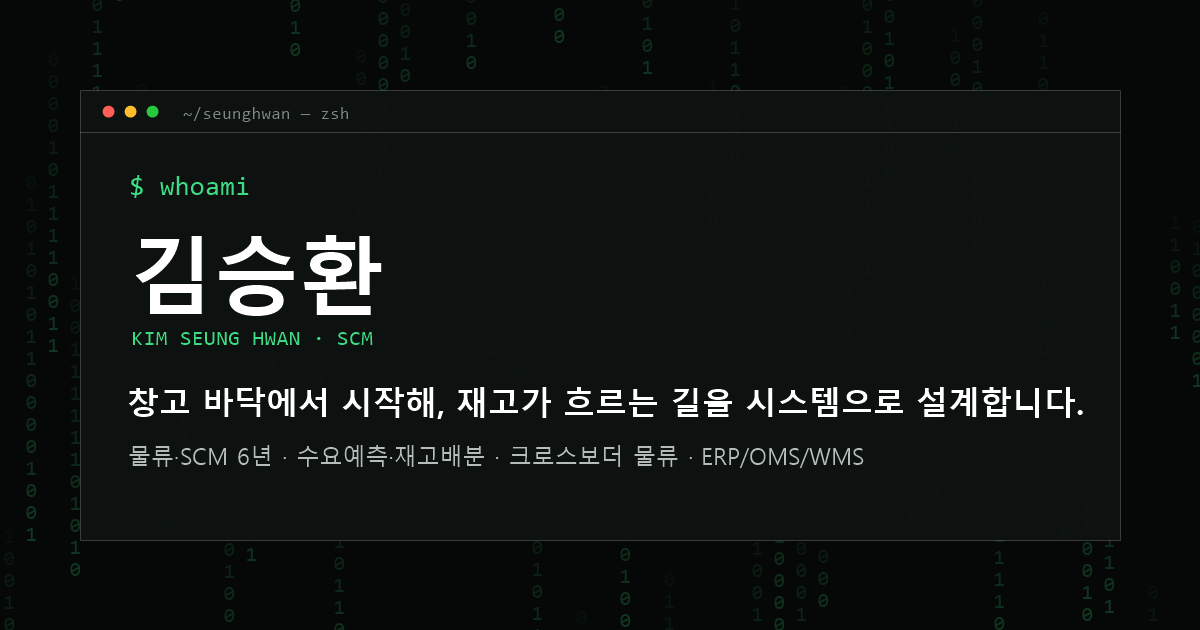
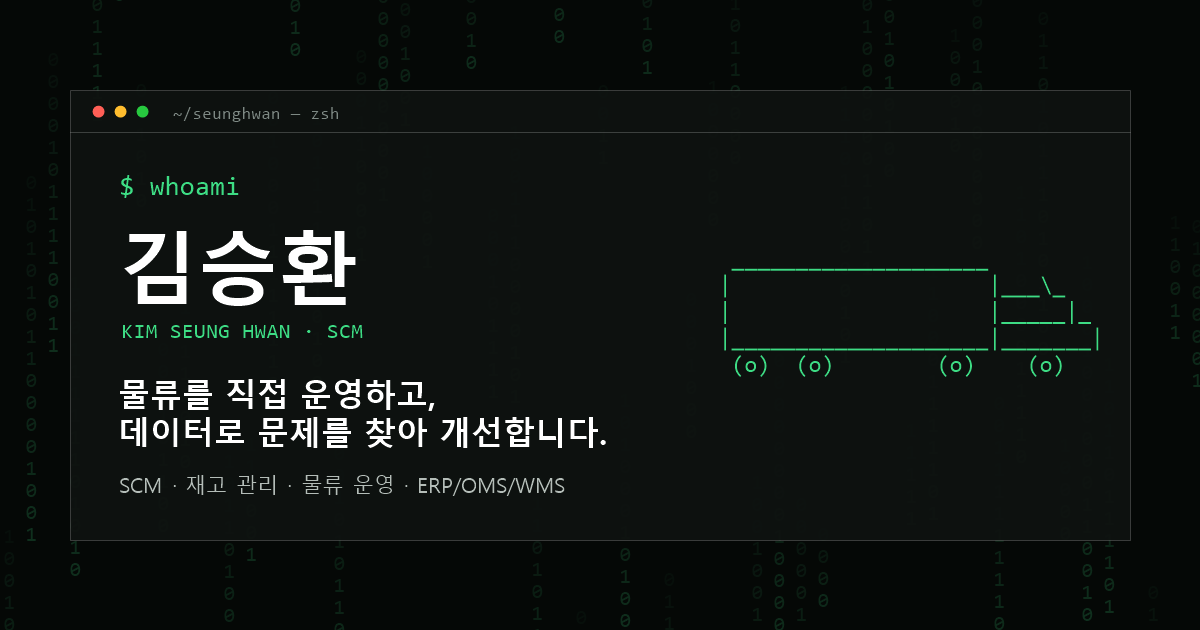
Drive the footer truck itself, drop SKU box, new share image, blur only on PrintScreen

diff --git a/index.html b/index.html
@@ -209,12 +209,10 @@
   footer pre { font: 10px/1.25 var(--mono); color: var(--green); opacity: .7; cursor: pointer; transition: opacity .2s; }
   footer pre:hover, footer pre:focus-visible { opacity: 1; }
   /* 이스터에그: 트럭 배송 */
-  .truck-run { position: fixed; left: 0; bottom: 18px; z-index: 20; margin: 0; font: 12px/1.25 var(--mono); color: var(--green); pointer-events: none; animation: drive 2.6s cubic-bezier(.5, 0, .7, 1) forwards; }
   /* 이스터에그: 릭롤 팝업 */
   .rick { width: min(720px, calc(100% - 32px)); margin: auto; padding: 0; background: #0e1210; border: 1px solid var(--line-strong); border-radius: 10px; overflow: hidden; color: var(--text); }
   .rick::backdrop { background: rgba(0, 0, 0, .8); }
   .rick iframe { display: block; width: 100%; aspect-ratio: 16 / 9; border: 0; background: #000; }
-  @keyframes drive { from { transform: translateX(-320px); } to { transform: translateX(calc(100vw + 40px)); } }
 
   /* 프로필 사진: 21프레임 스프라이트(졸라 → E3 → 원본 단순 혼합), 마우스 올리면 재생·떼면 역재생 */
   .who { display: flex; align-items: center; gap: 28px; }
@@ -627,11 +625,11 @@
   </dialog>
 
   <footer>
-    <pre id="truck" role="button" tabindex="0" aria-label="트럭 출발시키기" title="출발!"> _____     ____________________
-|     |   |                    |___\_
-| SKU |   |                    |_____|_
-|_____|   |____________________|_______|
-           (o)  (o)        (o)    (o) </pre>
+    <pre id="truck" role="button" tabindex="0" aria-label="트럭 출발시키기" title="출발!"> ____________________
+|                    |___\_
+|                    |_____|_
+|____________________|_______|
+ (o)  (o)        (o)    (o) </pre>
     <span>© 2026 Kim Seung Hwan — all systems operational</span>
   </footer>
 </main>
@@ -738,19 +736,22 @@
     const k = e.key.toLowerCase(), mod = e.ctrlKey || e.metaKey;
     if (e.key === 'F12' || (mod && ['s', 'u', 'p'].includes(k)) || (mod && e.shiftKey && ['i', 'j', 'c'].includes(k))) e.preventDefault();
   });
-  // 캡처 억제: PrintScreen 키나 창이 포커스를 잃으면(캡처 도구 실행 시) 잠시 화면을 흐리게
+  // 캡처 억제: PrintScreen 키를 누르면 잠시 화면을 흐리게
   const shield = on => document.body.classList.toggle('shield', on);
   document.addEventListener('keyup', e => { if (e.key === 'PrintScreen') { try { navigator.clipboard.writeText(''); } catch (_) {} shield(true); setTimeout(() => shield(false), 1500); } });
-  addEventListener('blur', () => shield(true));
-  addEventListener('focus', () => shield(false));
   // ===== 이스터에그 =====
   // 1) 푸터 트럭 클릭 → 화면을 가로질러 배송
   const truck = document.getElementById('truck');
-  const ship = () => {
-    if (reduce || document.querySelector('.truck-run')) return;
-    const run = truck.cloneNode(true); run.removeAttribute('id'); run.className = 'truck-run'; run.setAttribute('aria-hidden', 'true');
-    document.body.append(run);
-    run.addEventListener('animationend', () => run.remove());
+  let shipping = false;
+  const ship = async () => {   // 클릭한 트럭이 오른쪽으로 출발 → 화면 밖으로 → 왼쪽에서 다시 들어와 제자리
+    if (reduce || shipping) return;
+    shipping = true;
+    const go = truck.animate([{ transform: 'translateX(0)' }, { transform: 'translateX(100vw)' }], { duration: 1600, easing: 'cubic-bezier(.55, 0, .9, .4)', fill: 'forwards' });
+    await go.finished;
+    const back = truck.animate([{ transform: 'translateX(-100vw)' }, { transform: 'translateX(0)' }], { duration: 1200, easing: 'cubic-bezier(.1, .6, .3, 1)' });
+    go.cancel();
+    await back.finished;
+    shipping = false;
   };
   truck.addEventListener('click', ship);
   truck.addEventListener('keydown', e => { if (e.key === 'Enter' || e.key === ' ') { e.preventDefault(); ship(); } });
